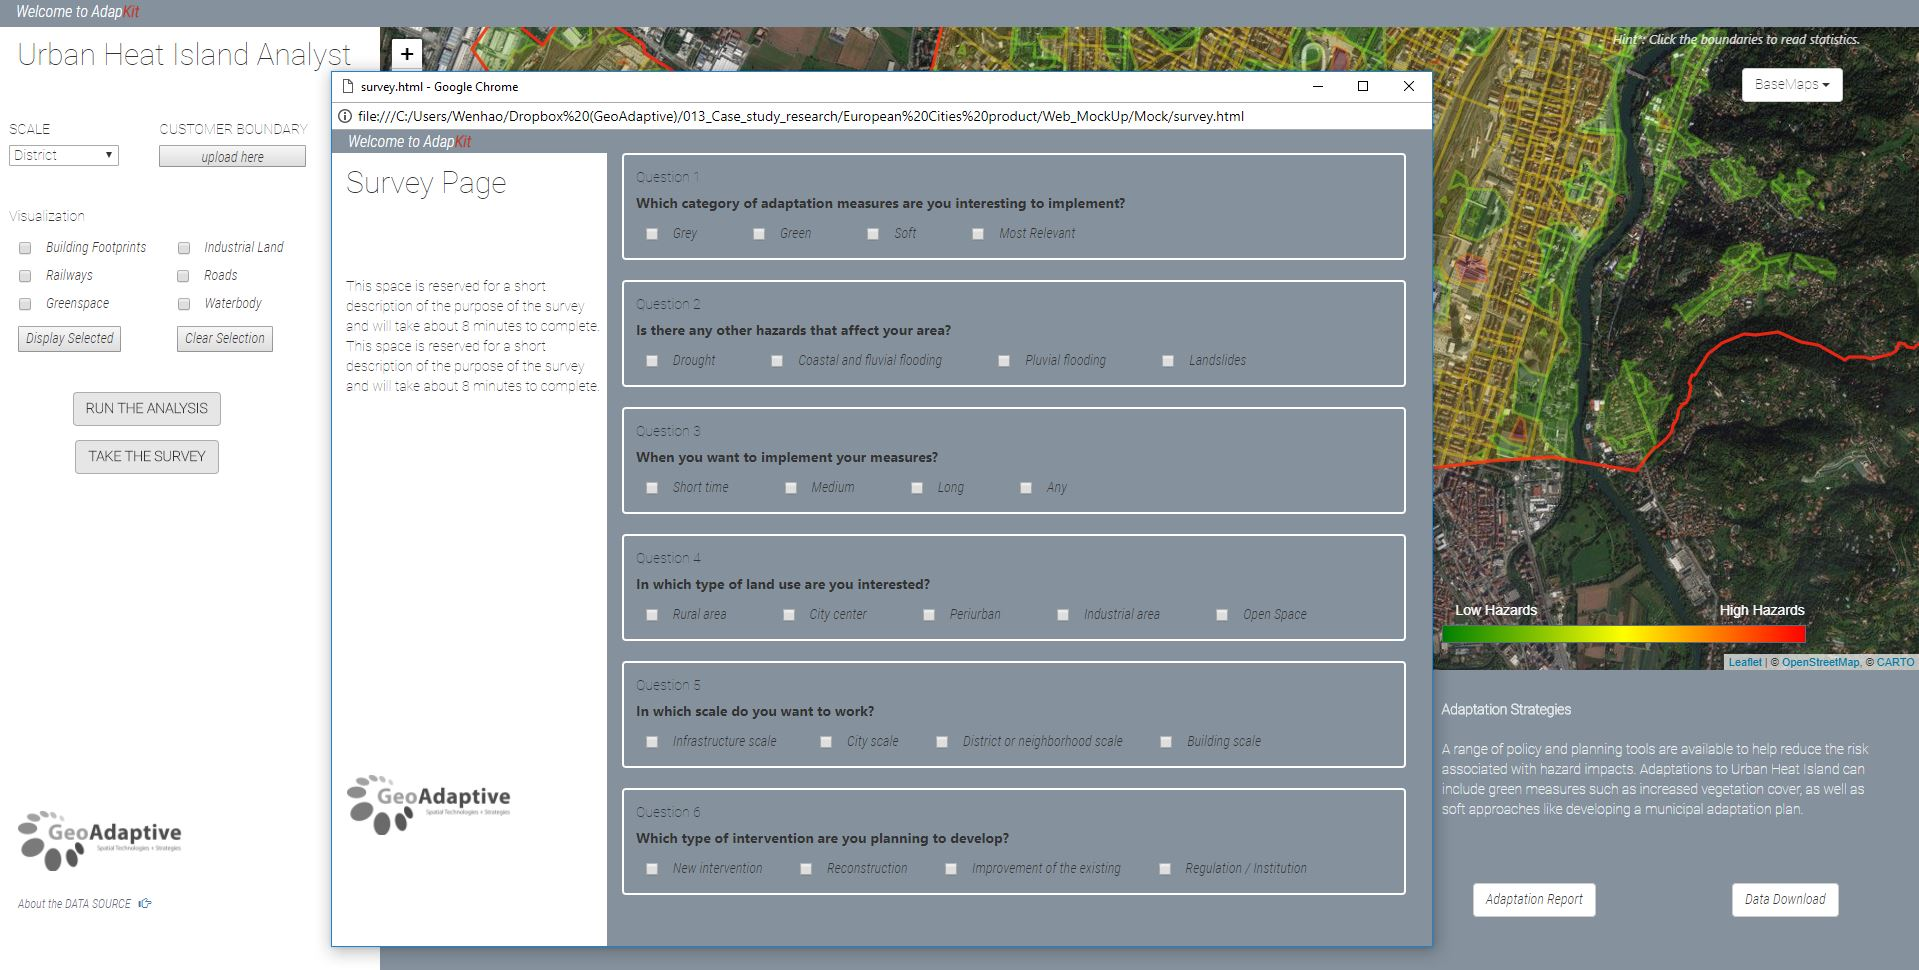
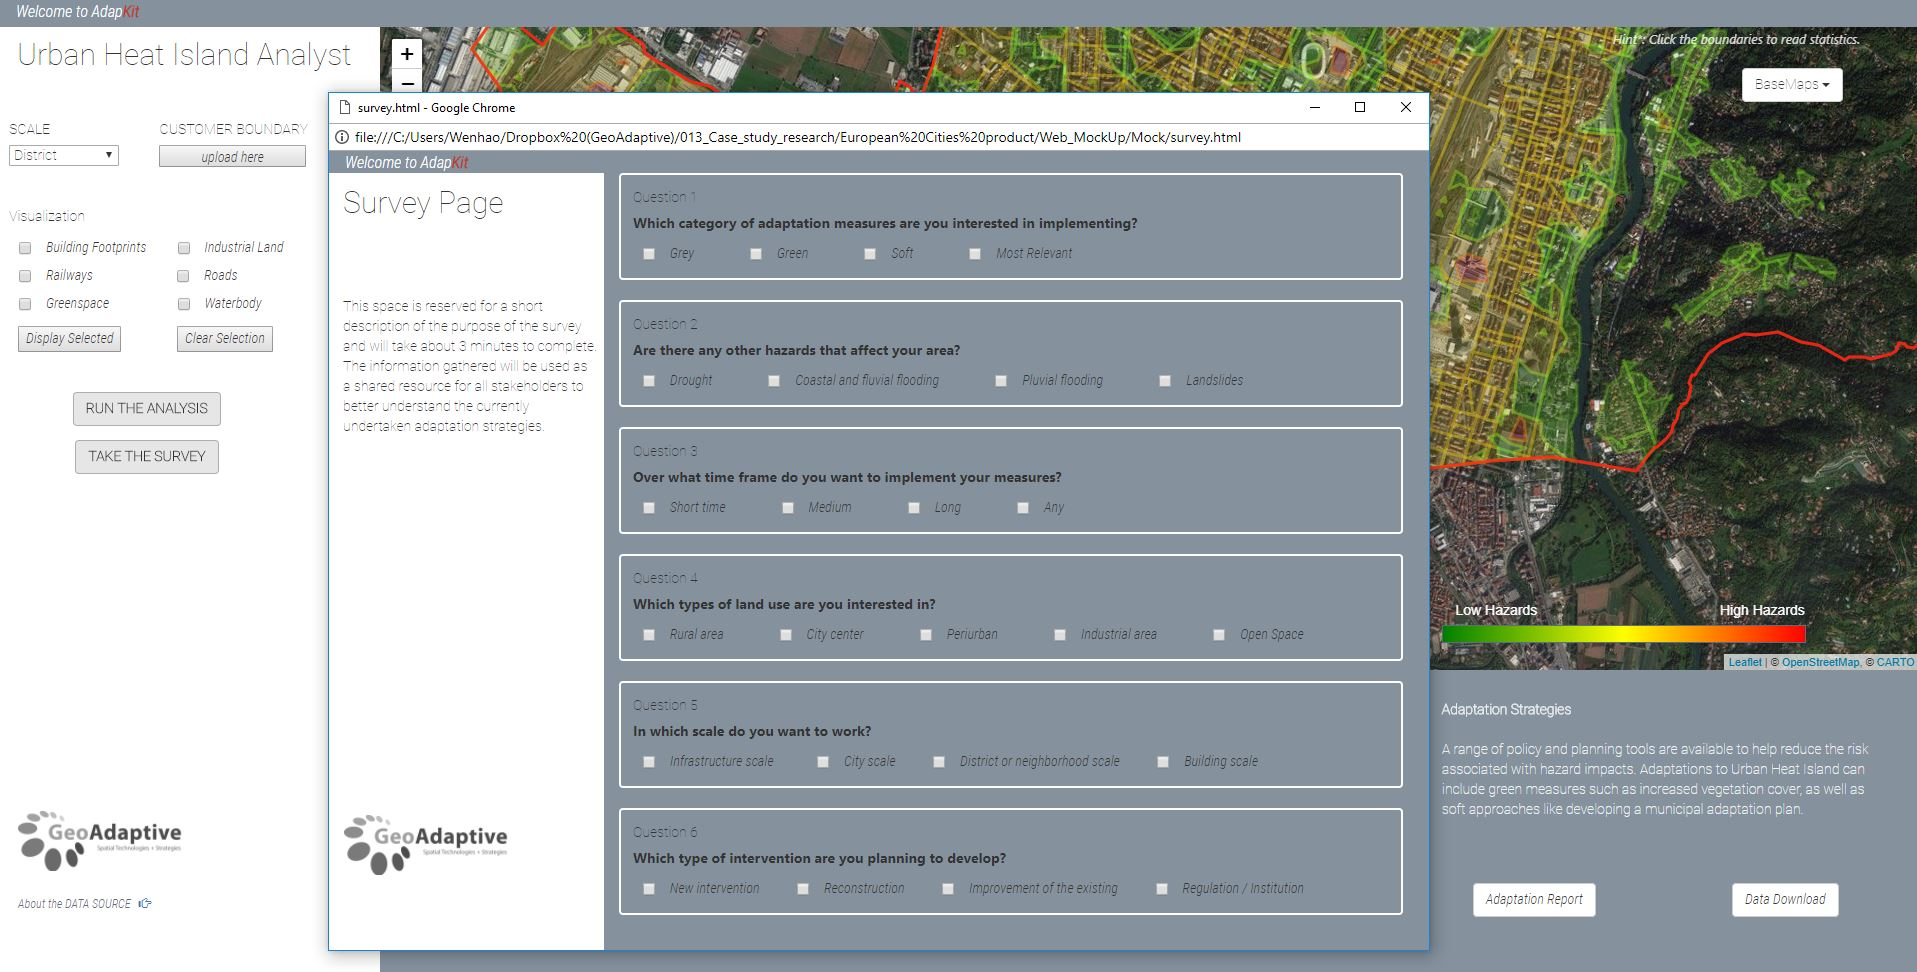
0918_7

diff --git a/survey.html b/survey.html
@@ -40,7 +40,7 @@ crossorigin=""/>
     <br>
     <br>
     <p id = surveyintro>
-      This space is reserved for a short description of the purpose of the survey and will take about 8 minutes to complete. This space is reserved for a short description of the purpose of the survey and will take about 8 minutes to complete.
+      This space is reserved for a short description of the purpose of the survey and will take about 3 minutes to complete. The information gathered will be used as a shared resource for all stakeholders to better understand the currently undertaken adaptation strategies.
     </p>
     <br>
     <br>
@@ -68,7 +68,7 @@ crossorigin=""/>
     <div class="section">
       <label class="selectionlabel" for="dest">Question 1</label>
       <br>
-      <label class="question" for="dest">Which category of adaptation measures are you interesting to implement?</label>
+      <label class="question" for="dest">Which category of adaptation measures are you interested in implementing?</label>
       <br>
       <input id="buildings" class="layers" type="checkbox" name="vehicle" value="Bike">
       <label class="layerlabel">Grey  &nbsp&nbsp&nbsp&nbsp&nbsp&nbsp&nbsp&nbsp&nbsp&nbsp&nbsp&nbsp&nbsp&nbsp&nbsp&nbsp&nbsp&nbsp&nbsp</label>
@@ -84,7 +84,7 @@ crossorigin=""/>
     <div class="section">
       <label class="selectionlabel" for="dest">Question 2</label>
       <br>
-      <label class="question" for="dest">Is there any other hazards that affect your area?</label>
+      <label class="question" for="dest">Are there any other hazards that affect your area?</label>
       <br>
       <input id="buildings" class="layers" type="checkbox" name="vehicle" value="Bike">
       <label class="layerlabel">Drought  &nbsp&nbsp&nbsp&nbsp&nbsp&nbsp&nbsp&nbsp&nbsp&nbsp&nbsp&nbsp&nbsp&nbsp&nbsp&nbsp&nbsp&nbsp&nbsp</label>
@@ -100,7 +100,7 @@ crossorigin=""/>
     <div class="section">
       <label class="selectionlabel" for="dest">Question 3</label>
       <br>
-      <label class="question" for="dest">When you want to implement your measures?</label>
+      <label class="question" for="dest">Over what time frame do you want to implement your measures?</label>
       <br>
       <input id="buildings" class="layers" type="checkbox" name="vehicle" value="Bike">
       <label class="layerlabel">Short time &nbsp&nbsp&nbsp&nbsp&nbsp&nbsp&nbsp&nbsp&nbsp&nbsp&nbsp&nbsp&nbsp&nbsp&nbsp&nbsp&nbsp&nbsp&nbsp</label>
@@ -116,7 +116,7 @@ crossorigin=""/>
     <div class="section">
       <label class="selectionlabel" for="dest">Question 4</label>
       <br>
-      <label class="question" for="dest">In which type of land use are you interested?</label>
+      <label class="question" for="dest">Which types of land use are you interested in?</label>
       <br>
       <input id="buildings" class="layers" type="checkbox" name="vehicle" value="Bike">
       <label class="layerlabel">Rural area  &nbsp&nbsp&nbsp&nbsp&nbsp&nbsp&nbsp&nbsp&nbsp&nbsp&nbsp&nbsp&nbsp&nbsp&nbsp&nbsp&nbsp&nbsp&nbsp</label>
